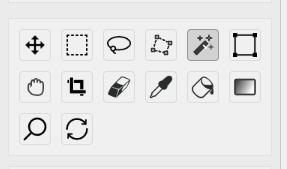
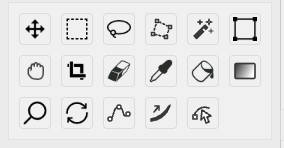
Fit Hampter inside the warning and refresh the tools screenshot

diff --git a/index.html b/index.html
@@ -8,7 +8,7 @@
   <title>Loneti essentials</title>
   <link rel="icon" type="image/svg+xml" href="./icon.svg">
   <link rel="canonical" href="https://bedrockbender.github.io/loneti-essentials/">
-  <link rel="stylesheet" href="./site.css?v=background-art">
+  <link rel="stylesheet" href="./site.css?v=hampter-fit">
   <script>
     if (location.hostname === 'bedrockbender.github.io' && /^\/loneti-smile-collector(?:\/index\.html|\/)?$/.test(location.pathname)) {
       location.replace('/loneti-essentials/' + location.search + location.hash);
@@ -238,10 +238,10 @@
             <h2>Drawing tools</h2>
             <p>In the LONETI tool palette, look for Polygon and Magic wand beside the lasso and Gradient beside the paint bucket. Hover over an icon for a hint. On a phone, tap the brush icon at the bottom to open the palette and adjust the tool. You’ll find the same tools in drawings, rooms, and the Smile and avatar editors.</p>
             <figure class="guide-shot">
-              <a href="./screenshots/drawing-tools.png" title="Open full-size screenshot">
-                <img src="./screenshots/drawing-tools.png" width="287" height="169" loading="lazy" decoding="async" alt="The drawing palette with Magic wand selected">
+              <a href="./screenshots/drawing-tools.png?v=curve-tools" title="Open full-size screenshot">
+                <img src="./screenshots/drawing-tools.png?v=curve-tools" width="284" height="148" loading="lazy" decoding="async" alt="The LONETI drawing toolbar with three rows of tool icons">
               </a>
-              <figcaption>Magic wand is highlighted in the top row. Gradient is at the right of the second row.</figcaption>
+              <figcaption>Curve, Pressure, and Edit are the last three buttons in the bottom row.</figcaption>
             </figure>
             <dl class="tool-list">
               <dt>Curve</dt>
@@ -263,10 +263,10 @@
             <h2>Инструменты рисования</h2>
             <p>На панели инструментов LONETI многоугольник и волшебная палочка находятся рядом с лассо, а градиент — рядом с заливкой. Наведите курсор на значок, чтобы увидеть подсказку. На телефоне нажмите значок кисти внизу экрана, чтобы открыть панель и настроить инструмент. Эти инструменты есть в обычном редакторе, комнатах рисования и редакторах смайлов и аватаров.</p>
             <figure class="guide-shot">
-              <a href="./screenshots/drawing-tools.png" title="Открыть снимок в полном размере">
-                <img src="./screenshots/drawing-tools.png" width="287" height="169" loading="lazy" decoding="async" alt="Панель рисования с выбранной волшебной палочкой">
+              <a href="./screenshots/drawing-tools.png?v=curve-tools" title="Открыть снимок в полном размере">
+                <img src="./screenshots/drawing-tools.png?v=curve-tools" width="284" height="148" loading="lazy" decoding="async" alt="Панель рисования LONETI с тремя рядами значков инструментов">
               </a>
-              <figcaption>Волшебная палочка выделена в верхнем ряду. Градиент находится справа во втором ряду.</figcaption>
+              <figcaption>Кривая, Нажим и Правка — три последние кнопки в нижнем ряду.</figcaption>
             </figure>
             <dl class="tool-list">
               <dt>Кривая</dt>

diff --git a/site.css b/site.css
@@ -192,20 +192,39 @@ a:hover { text-decoration-thickness: .12em; }
 }
 
 .link-warning {
+  --warning-surface: #2c261e;
   position: relative;
   isolation: isolate;
-  margin-inline-end: 2.125rem;
   padding: .85rem 1.15rem;
+  padding-inline-end: 4rem;
   border-inline-start: .25rem solid #edbd70;
   border-radius: .25rem;
-  background: #2c261e;
   color: #f4e6d2;
+}
+
+/* Give Hampter a lower ledge so the ears can peek out when the copy wraps. */
+.link-warning::before,
+.link-warning::after {
+  content: "";
+  position: absolute;
+  z-index: -1;
+  background: var(--warning-surface);
+}
+.link-warning::before {
+  inset: 0 3.25rem 0 0;
+  border-radius: 0 .25rem 0 0;
+}
+.link-warning::after {
+  inset: auto 0 0 auto;
+  inline-size: 3.5rem;
+  block-size: 3.1rem;
+  border-radius: 0 .25rem .25rem 0;
 }
 .warning-hampter {
   position: absolute;
   inset-block-end: 0;
-  inset-inline-end: -3.1rem;
-  inline-size: 3.5rem;
+  inset-inline-end: .25rem;
+  inline-size: 3.25rem;
   pointer-events: none;
 }
 .link-warning > [data-locale] { position: relative; }
@@ -214,11 +233,13 @@ a:hover { text-decoration-thickness: .12em; }
 
 @media (min-width: 64rem) {
   .link-warning {
-    margin-inline-end: 0;
-    padding-inline-end: 8.6rem;
+    padding-inline-end: 9.75rem;
+    background: var(--warning-surface);
   }
+  .link-warning::before,
+  .link-warning::after { content: none; }
   .warning-hampter {
-    inset-inline-end: -.6rem;
+    inset-inline-end: .5rem;
     block-size: calc(100% + 1.5rem);
     max-block-size: 10.5rem;
     inline-size: auto;
